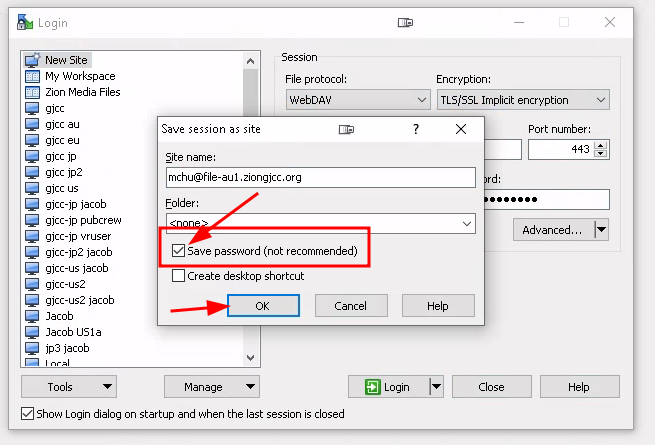
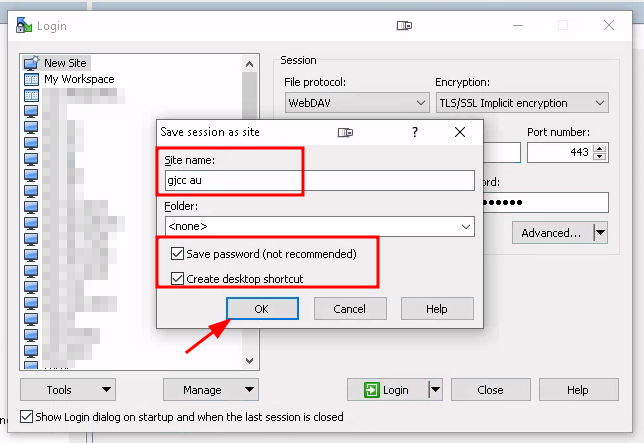
fix

Changed region(s): [[0.0, 0.0, 1.0, 0.9977]]

diff --git a/docs/winscp/guide.md b/docs/winscp/guide.md
@@ -63,20 +63,24 @@
 
     Enter the following information to your Winscp `NewSite` Form:
 
-| Item | Value |
-|---|---|
-| File Protocol | WebDAV |
-| Encryption | TLS/SSL Implicit Encryption |
-| Host Name | zsf-au1.ziongjcc.org |
-| Port Number | 443 |
-| User Name | << Use the user name U Hermon will provide for you >> |
-| Password | << Use the password U Hermon will provide for you >> |
+|   | Item | Value |
+|---|---|---|
+| 1 | File Protocol | WebDAV |
+| 2 | Encryption | TLS/SSL Implicit Encryption |
+| 3 | Host Name | zsf-au1.ziongjcc.org |
+| 4 | Port Number | 443 |
+| 5 | User Name | << Use the user name U Hermon will provide for you >> |
+| 6 | Password | << Use the password U Hermon will provide for you >> |
 
 ![Home Page](./images/Winscp_Setup.png)
 
 ### 2. Save the password with your new site connection.
 
-    Click the checkbox next to the `Save password` so you won't need to type the password again on future connections.
+    Feel free to choose your own name for the site connection.
+
+    Select `Save password` so you won't need to type the password again on future connections.
+
+    Select 'Desktop Shortcut' to create an icon on your desktop to automatically connect to site.
 
 ![Home Page](./images/Winscp_Setup2.png)
 
